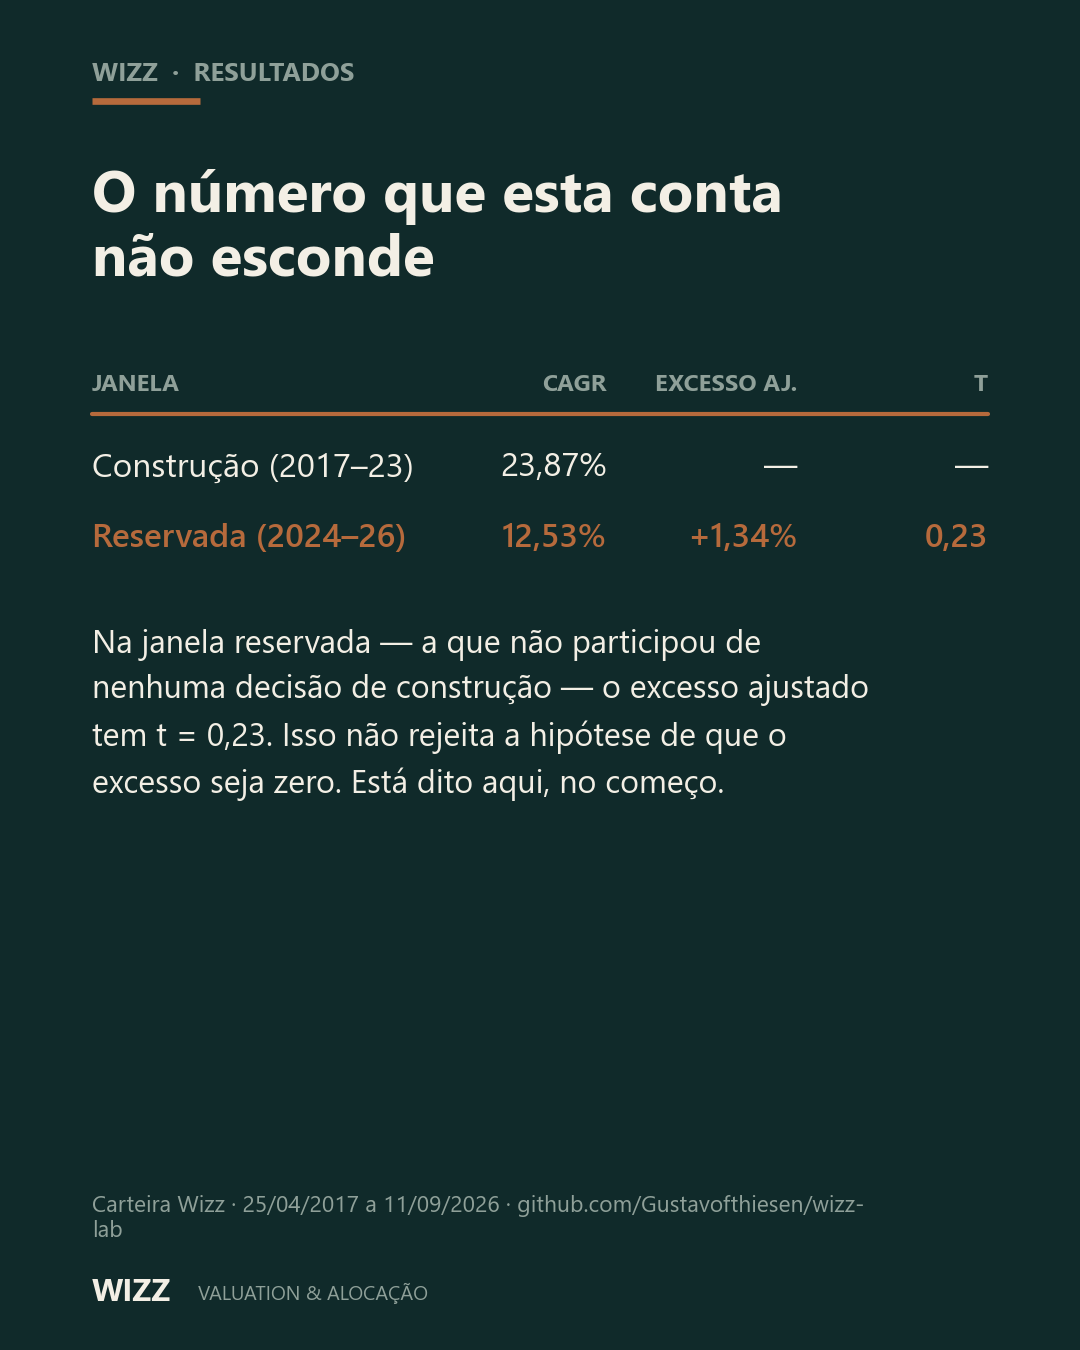
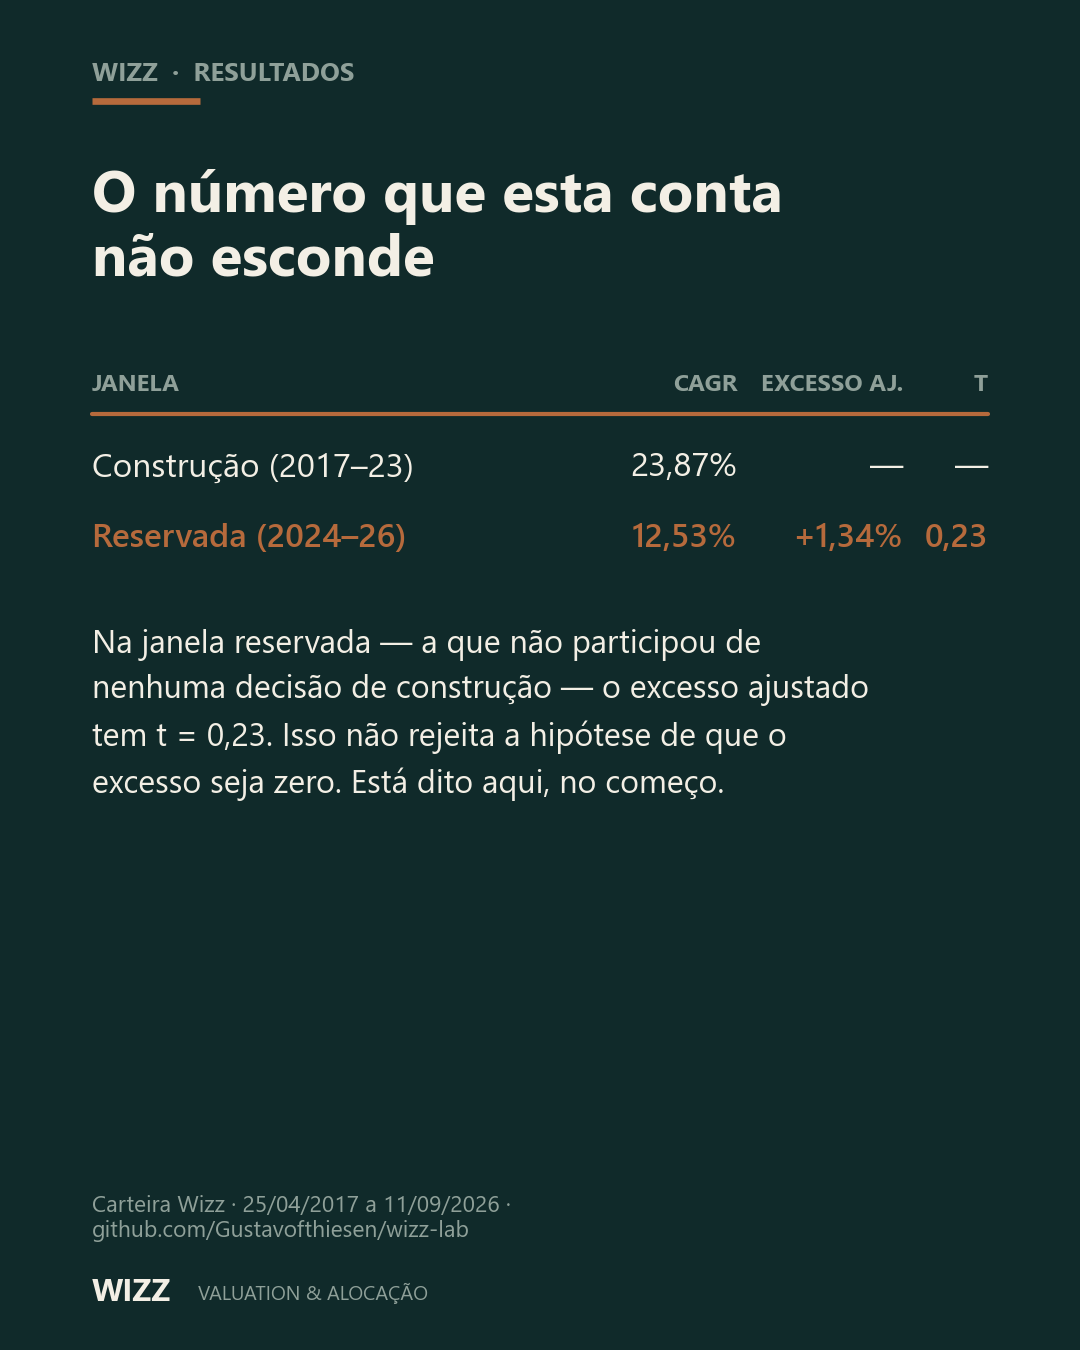
Marca dados simulados e corrige colisao de colunas na tabela
Tres defeitos achados na revisao antes do lancamento:

- O trilho de metricas desenhava serie simulada sobre anos de calendario
  reais, com a curva rotulada "carteira". Num card que so difere do trilho
  de resultados pela cor de fundo, quem passa o dedo le aquilo como sendo a
  carteira real: 100 para 450 entre 2012 e 2022. A unica ressalva era o
  rodape em salvia de 11 pt. Agora a serie se chama "serie simulada" e o
  grafico leva carimbo DADOS SIMULADOS dentro da area de plotagem.

- cards.tabela repartia a largura por pesos fixos [1.7, 1, 1...]. Coluna de
  texto mais longo que o previsto invadia a vizinha, sem erro e sem aviso.
  Agora as larguras saem do conteudo medido e o corpo encolhe ate caber.

- _quebrar partia palavra longa, cortando a URL do repositorio no meio em
  todo rodape.

diff --git a/wizzlab/cards.py b/wizzlab/cards.py
@@ -112,7 +112,16 @@ def _base(serie: str) -> tuple[Figure, EstiloSerie]:
 
 
 def _quebrar(texto: str, largura: int) -> str:
-    return "\n".join(textwrap.wrap(texto, largura)) if texto else ""
+    """Quebra por palavra, nunca no meio de uma.
+
+    O padrão do `textwrap` parte palavra longa e hífen, o que corta URL no
+    meio -- ``github.com/Gustavofthiesen/wizz-`` numa linha e ``lab`` na
+    outra, em todo rodapé que cita o repositório.
+    """
+    if not texto:
+        return ""
+    return "\n".join(textwrap.wrap(texto, largura, break_long_words=False,
+                                   break_on_hyphens=False))
 
 
 def _largura_util(fig: Figure) -> float:
@@ -258,7 +267,7 @@ def numero(valor: str, legenda: str, serie: str = "data", contexto: str = "",
 
 # --- card de gráfico ---------------------------------------------------------
 def grafico(titulo: str, figura_fn, serie: str = "data", leitura: str = "",
-            rodape: str = "") -> Figure:
+            rodape: str = "", simulado: bool = False) -> Figure:
     """Card com um gráfico embutido.
 
     Parameters
@@ -270,6 +279,15 @@ def grafico(titulo: str, figura_fn, serie: str = "data", leitura: str = "",
     leitura:
         A frase de "o que observar". Um gráfico sem pergunta explícita é ruído
         visual -- este campo existe para que ela nunca falte.
+    simulado:
+        Carimba **DADOS SIMULADOS** dentro da área do gráfico.
+
+        Não é redundante com a fonte no rodapé, e a diferença importa. O
+        trilho de métricas desenha série simulada sobre anos de calendário
+        reais; num card que só difere do trilho de resultados pela cor de
+        fundo, quem passa o dedo lê a curva como sendo a carteira. O rodapé em
+        sálvia de 11 pt não desfaz isso. O carimbo fica no mesmo lugar onde o
+        olho já está.
     """
     fig, estilo = _base(serie)
     titulo_f, texto_f = _fontes()
@@ -292,6 +310,14 @@ def grafico(titulo: str, figura_fn, serie: str = "data", leitura: str = "",
             else "#1E3C3A", linewidth=0.9)
     ax.set_axisbelow(True)
     figura_fn(ax)
+
+    if simulado:
+        # Canto superior direito da área de plotagem: fora do caminho da
+        # curva na maioria dos gráficos, e dentro do enquadramento que o
+        # leitor já está olhando.
+        ax.text(0.995, 1.02, "DADOS SIMULADOS", transform=ax.transAxes,
+                fontsize=10, color=estilo.acento, family=texto_f,
+                fontweight="bold", ha="right", va="bottom")
 
     if leitura:
         fig.text(MARGEM, 0.255, _quebrar(leitura, 50), fontsize=15.5,
@@ -403,17 +429,48 @@ def tabela(titulo: str, cabecalho: tuple[str, ...], linhas: list[tuple],
 
     n_col = len(cabecalho)
     largura = (1 - 2 * MARGEM)
-    # Primeira coluna mais larga: costuma carregar o rótulo textual.
-    pesos = [1.7] + [1.0] * (n_col - 1)
-    total = sum(pesos)
+
+    # As larguras saem do conteúdo medido, não de pesos fixos. Com pesos
+    # fixos, uma coluna de texto mais longo que o previsto invade a vizinha
+    # e o card sai com as duas sobrepostas -- sem erro, sem aviso, só
+    # ilegível no post publicado.
+    renderer = fig.canvas.get_renderer()
+
+    def _medir(txt: str, corpo: float, peso: str = "normal") -> float:
+        """Largura do texto em fração da figura."""
+        a = fig.text(0, 0, txt, fontsize=corpo, family=texto_f,
+                     fontweight=peso)
+        w = a.get_window_extent(renderer=renderer).width
+        a.remove()
+        return w / (fig.dpi * fig.get_figwidth())
+
+    GOTEIRA = 0.022          # respiro mínimo entre colunas
+    corpo = 16.0
+    while corpo >= 11.0:
+        necessario = []
+        for i in range(n_col):
+            celulas = [str(linha[i]) for linha in linhas]
+            necessario.append(max(
+                [_medir(c, corpo) for c in celulas] +
+                [_medir(cabecalho[i].upper(), 11.5, "bold")]))
+        if sum(necessario) + GOTEIRA * (n_col - 1) <= largura:
+            break
+        corpo -= 0.5
+
+    # A folga que sobrar vai para a primeira coluna, que é a que carrega
+    # rótulo textual e respira melhor à esquerda.
+    folga = largura - sum(necessario) - GOTEIRA * (n_col - 1)
+    cols = list(necessario)
+    cols[0] += max(folga, 0)
+
     xs, acumulado = [], MARGEM
-    for p in pesos:
+    for w in cols:
         xs.append(acumulado)
-        acumulado += largura * p / total
+        acumulado += w + GOTEIRA
 
     def _x(i: int) -> float:
-        """Primeira coluna alinha à esquerda; as de número, à direita."""
-        return xs[i] if i == 0 else xs[i] + largura * pesos[i] / total
+        """Primeira coluna alinha à esquerda; as demais, à direita."""
+        return xs[i] if i == 0 else xs[i] + cols[i]
 
     y = 0.715
     for i, rotulo in enumerate(cabecalho):
@@ -428,7 +485,7 @@ def tabela(titulo: str, cabecalho: tuple[str, ...], linhas: list[tuple],
         cor = estilo.acento if k == destacar else estilo.tinta
         peso = "semibold" if k == destacar else "normal"
         for i, valor in enumerate(linha):
-            fig.text(_x(i), y, str(valor), fontsize=16, color=cor,
+            fig.text(_x(i), y, str(valor), fontsize=corpo, color=cor,
                      family=texto_f, fontweight=peso, va="center",
                      ha="left" if i == 0 else "right")
         y -= 0.052

diff --git a/tools/gerar_programa.py b/tools/gerar_programa.py
@@ -96,7 +96,7 @@ def m01_cagr():
         ben = metrics.risco.curva_capital(REF) * 100
         ax.plot(cap.index, cap.values, color=brand.VERDE_FLORESTA, lw=2.2)
         ax.plot(ben.index, ben.values, color=brand.COBRE, lw=1.8)
-        ax.annotate("carteira", xy=(cap.index[-1], cap.iloc[-1]), xytext=(8, 0),
+        ax.annotate("série simulada", xy=(cap.index[-1], cap.iloc[-1]), xytext=(8, 0),
                     textcoords="offset points", color=brand.VERDE_FLORESTA,
                     fontsize=12, fontweight="semibold", va="center")
         ax.annotate("referência", xy=(ben.index[-1], ben.iloc[-1]),
@@ -128,7 +128,7 @@ def m01_cagr():
             rodape="Identidade, não estimativa"),
         cards.grafico(
             "Capital acumulado contra a referência",
-            plot, "metrica",
+            plot, "metrica", simulado=True,
             leitura=f"Ambas em base 100, no mesmo intervalo. CAGR de "
                     f"{_pct0(cagr, 2)} contra {_pct0(cagr_ref, 2)} da "
                     "referência.",
@@ -200,7 +200,7 @@ def m02_drawdown():
             rodape="Martin & McCann"),
         cards.grafico(
             "A série de drawdown",
-            plot, "metrica",
+            plot, "metrica", simulado=True,
             leitura=f"Queda percentual desde o pico anterior, dia a dia. O "
                     f"episódio mais profundo chegou a {_pct(mdd, 1)}; o período "
                     f"inteiro passou {tuw:.0%} do tempo abaixo de algum pico.",
@@ -277,7 +277,7 @@ def m03_sharpe():
             rodape="Lo (2002) · doi 10.2469/faj.v58.n4.2453"),
         cards.grafico(
             "As três sobre a mesma série",
-            plot, "metrica",
+            plot, "metrica", simulado=True,
             leitura=f"Volatilidade anual de {_pct0(vol, 1)}. A diferença entre "
                     "Sharpe e Sortino indica quanto da oscilação está no lado "
                     "favorável.",
@@ -330,7 +330,7 @@ def m04_excesso():
         ax.axvline(0, color=brand.LINHA_SUTIL, lw=1)
         ax.set_xlabel("retorno da referência, % ao dia",
                       color=brand.CINZA_SALVIA, fontsize=11)
-        ax.set_ylabel("retorno da carteira, % ao dia",
+        ax.set_ylabel("retorno da série simulada, % ao dia",
                       color=brand.CINZA_SALVIA, fontsize=11)
         ax.grid(True, axis="both", color=brand.LINHA_SUTIL, lw=.7)
 
@@ -354,7 +354,7 @@ def m04_excesso():
             rodape="Mínimos quadrados sobre retornos diários"),
         cards.grafico(
             "Carteira contra referência, dia a dia",
-            plot, "metrica",
+            plot, "metrica", simulado=True,
             leitura=f"Cada ponto é um pregão. A inclinação da reta é o beta "
                     f"({_num(float(reg['beta']))}); o intercepto é o excesso. "
                     f"R² de {_num(float(reg['r2']))}.",
@@ -414,14 +414,18 @@ def r00_abertura():
                   "mesmo jeito que se cobraria de qualquer outra."),
         cards.tabela(
             "Dois trilhos",
-            ("Trilho", "O que é", "Dado"),
-            [("Métricas", "como avaliar", "simulado"),
-             ("Resultados", "o que entregou", "carteira real")],
+            ("", "Métricas", "Resultados"),
+            [("o que é", "como avaliar", "o que entregou"),
+             ("dado", "série simulada", f"{int(CHEIA.pregoes):,}".replace(
+                 ",", ".") + " pregões"),
+             ("o que sai", "fórmula e código", "número com erro-padrão"),
+             ("serve para", "qualquer carteira", "prestar contas desta")],
             "resultado",
-            leitura="O trilho de métricas usa série simulada de propósito: "
+            leitura="A série do trilho de métricas é simulada de propósito: "
                     "quando se define o processo gerador, sabe-se qual é a "
-                    "resposta certa e dá para conferir se a métrica a "
-                    "encontra. O de resultados usa a carteira.",
+                    "resposta certa, e dá para conferir se a métrica a "
+                    "encontra. É o único jeito de testar a ferramenta antes "
+                    "de confiar nela.",
             rodape=f"{REPO}"),
         cards.tabela(
             "O número que esta conta não esconde",
